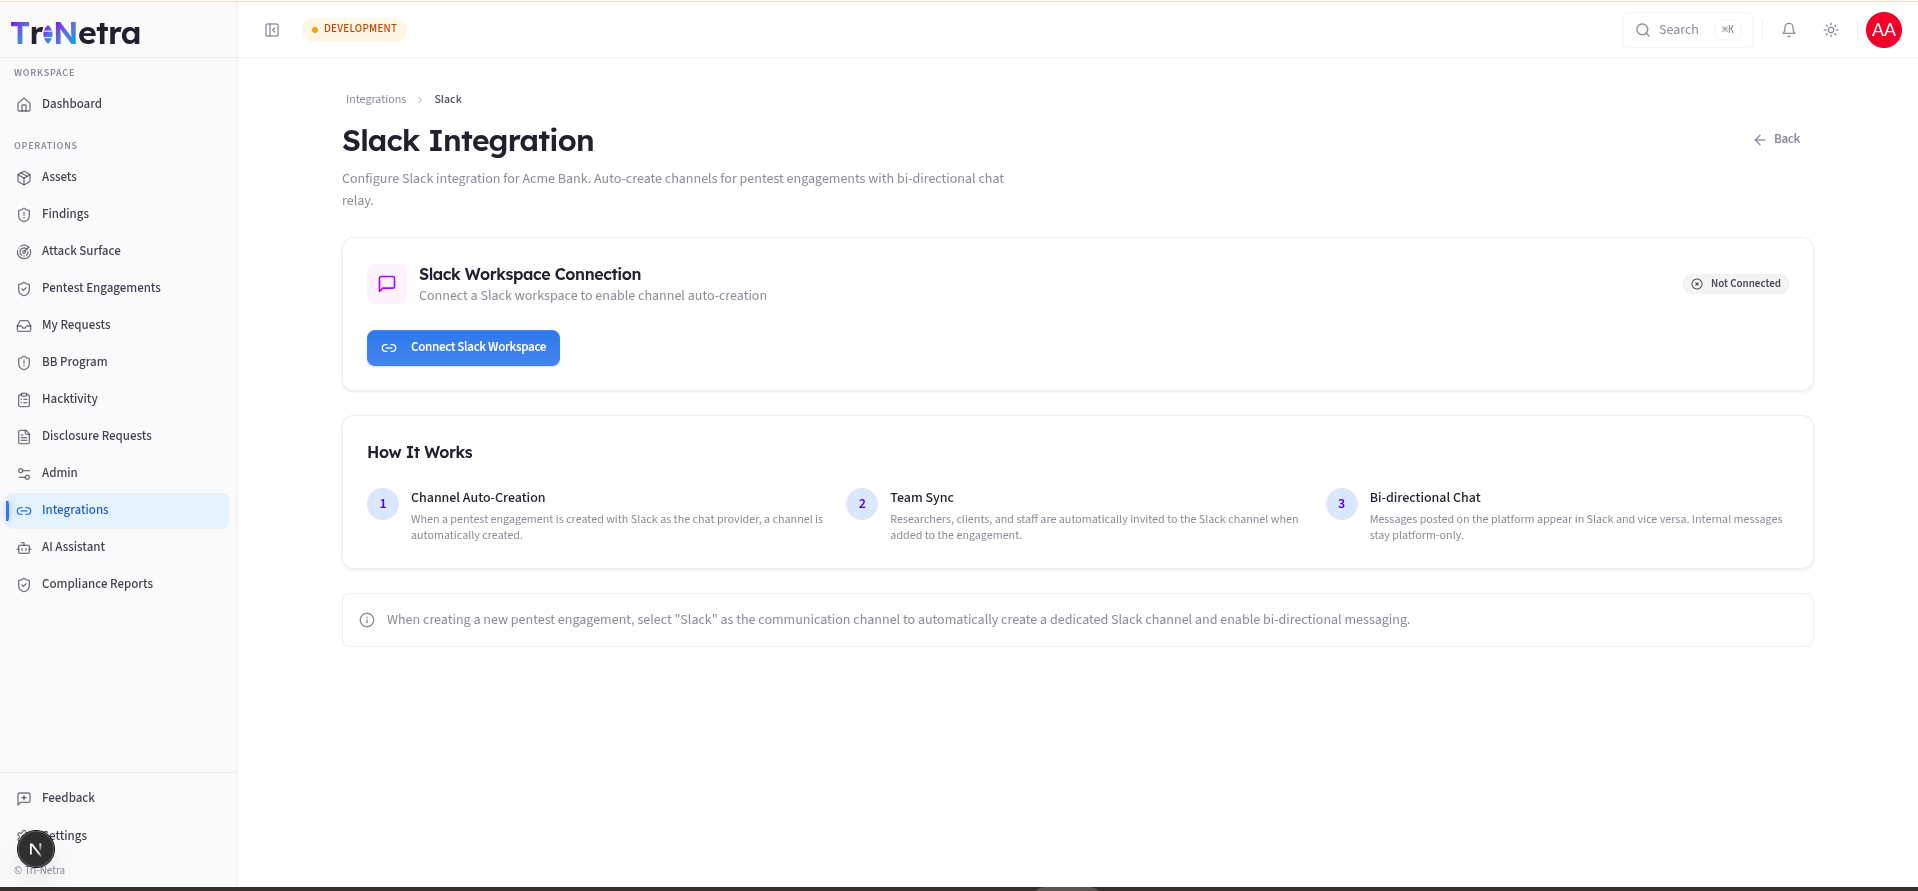
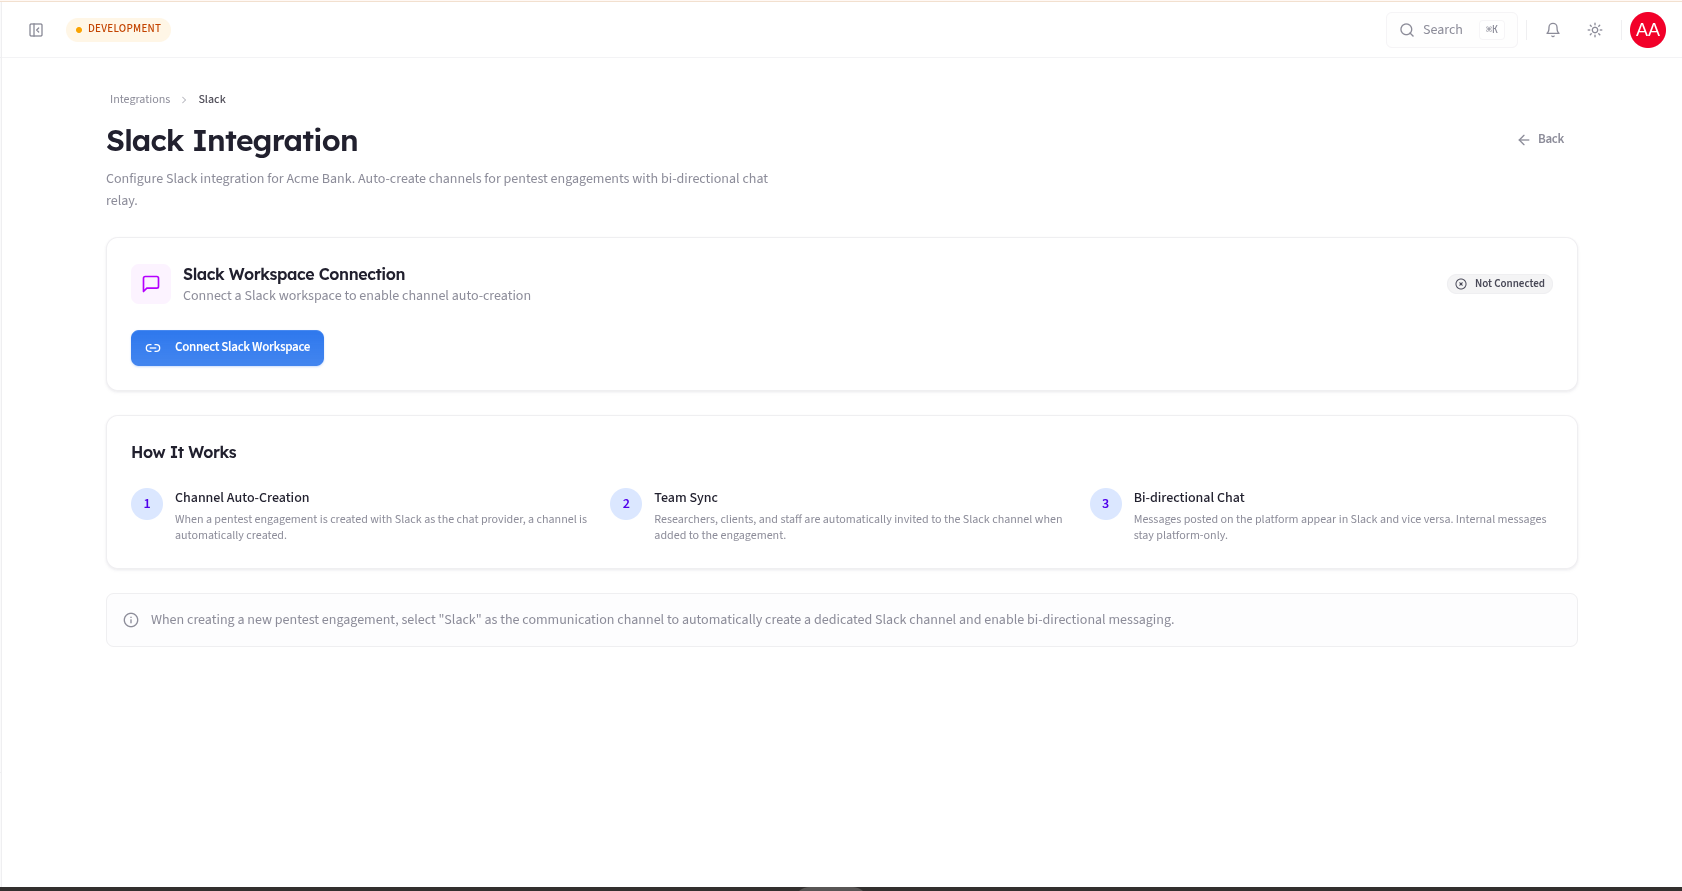
updated images for slack integration

diff --git a/site/client/10-integrations/index.html b/site/client/10-integrations/index.html
@@ -4660,7 +4660,7 @@ stop when something looks out of sync.</p>
 <hr />
 <hr />
 <h2 id="5-slack-engagement-chat-mirrored-to-slack">5. Slack (engagement chat mirrored to Slack)</h2>
-<p><img alt="Slack Integration — connection card, manual setup, and (once connected) project mappings, transition mappings, and sync logs." src="../../images/client_integration_Slack.png" /></p>
+<p><img alt="Slack Integration — Slack Workspace Connection card with the Connect Slack Workspace button and connection status, and the How It Works steps (channel auto-creation, team sync, bi-directional chat)." src="../../images/V2_Images/client_integration_Slack.png" /></p>
 <p>Alongside Jira, TriNetra can mirror your <strong>pentest engagement chat</strong> into your
 <strong>Slack</strong> workspace, so your team can follow and reply to engagement conversations
 without leaving Slack.</p>

diff --git a/docs/client/10-integrations.md b/docs/client/10-integrations.md
@@ -101,7 +101,7 @@ stop when something looks out of sync.
 
 ## 5. Slack (engagement chat mirrored to Slack)
 
-![Slack Integration — connection card, manual setup, and (once connected) project mappings, transition mappings, and sync logs.](../images/client_integration_Slack.png)
+![Slack Integration — Slack Workspace Connection card with the Connect Slack Workspace button and connection status, and the How It Works steps (channel auto-creation, team sync, bi-directional chat).](../images/V2_Images/client_integration_Slack.png)
 
 Alongside Jira, TriNetra can mirror your **pentest engagement chat** into your
 **Slack** workspace, so your team can follow and reply to engagement conversations
